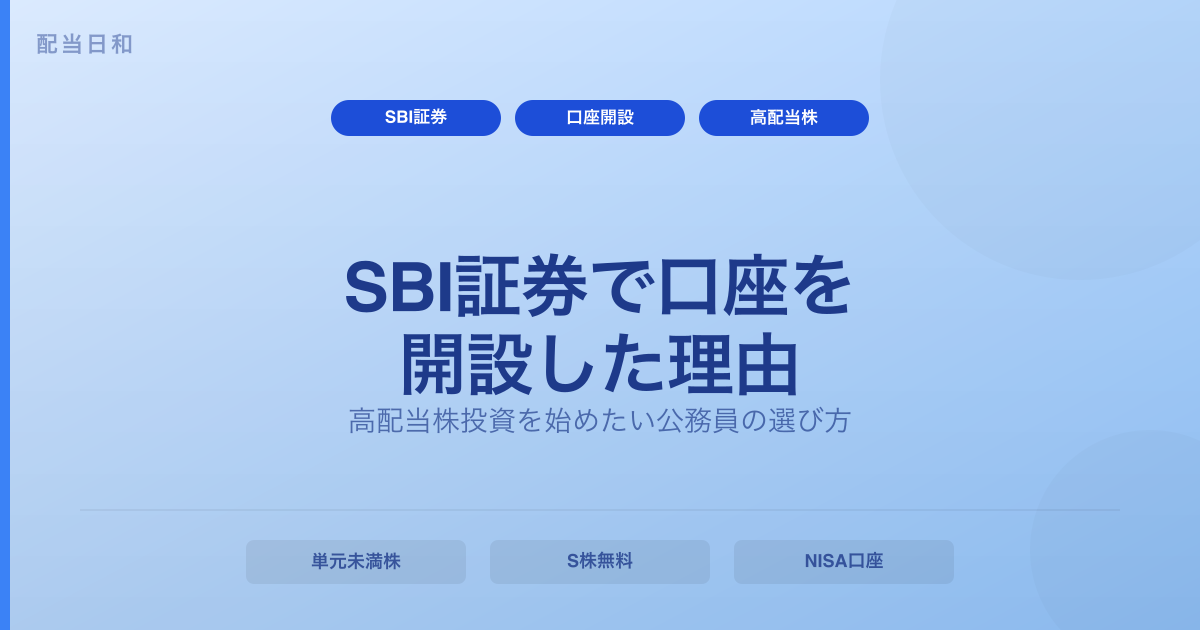
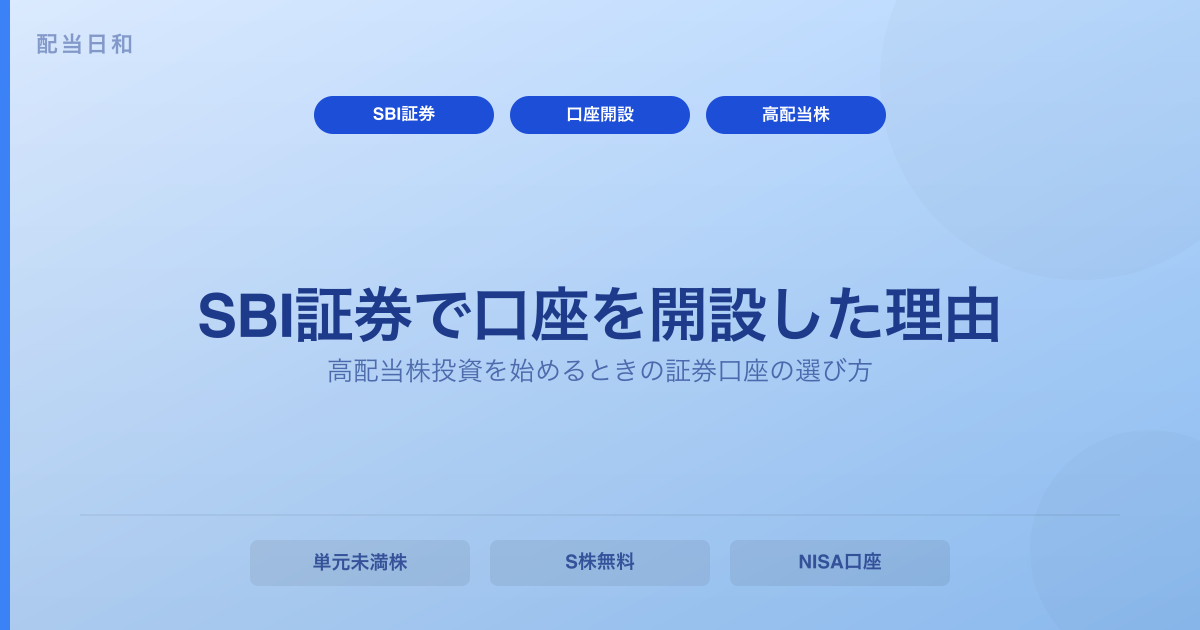
fix: SBI証券記事のタイトルとヒーロー画像を修正

diff --git a/src/content/blog/sbi-securities-account-open.md b/src/content/blog/sbi-securities-account-open.md
@@ -1,5 +1,5 @@
 ---
-title: 'SBI証券で口座を開設した理由【高配当株投資を始めたい公務員の選び方】'
+title: "SBI証券で口座を開設した理由【高配当株投資を始めるときの証券口座の選び方】"
 description: '高配当株投資のためにSBI証券を選んだ理由を正直に話します。単元未満株の銘柄数・NISA口座・開設手順まで、実体験をもとに解説します。'
 pubDate: '2026-04-25'
 heroImage: '../../assets/sbi-securities-account-open.png'
